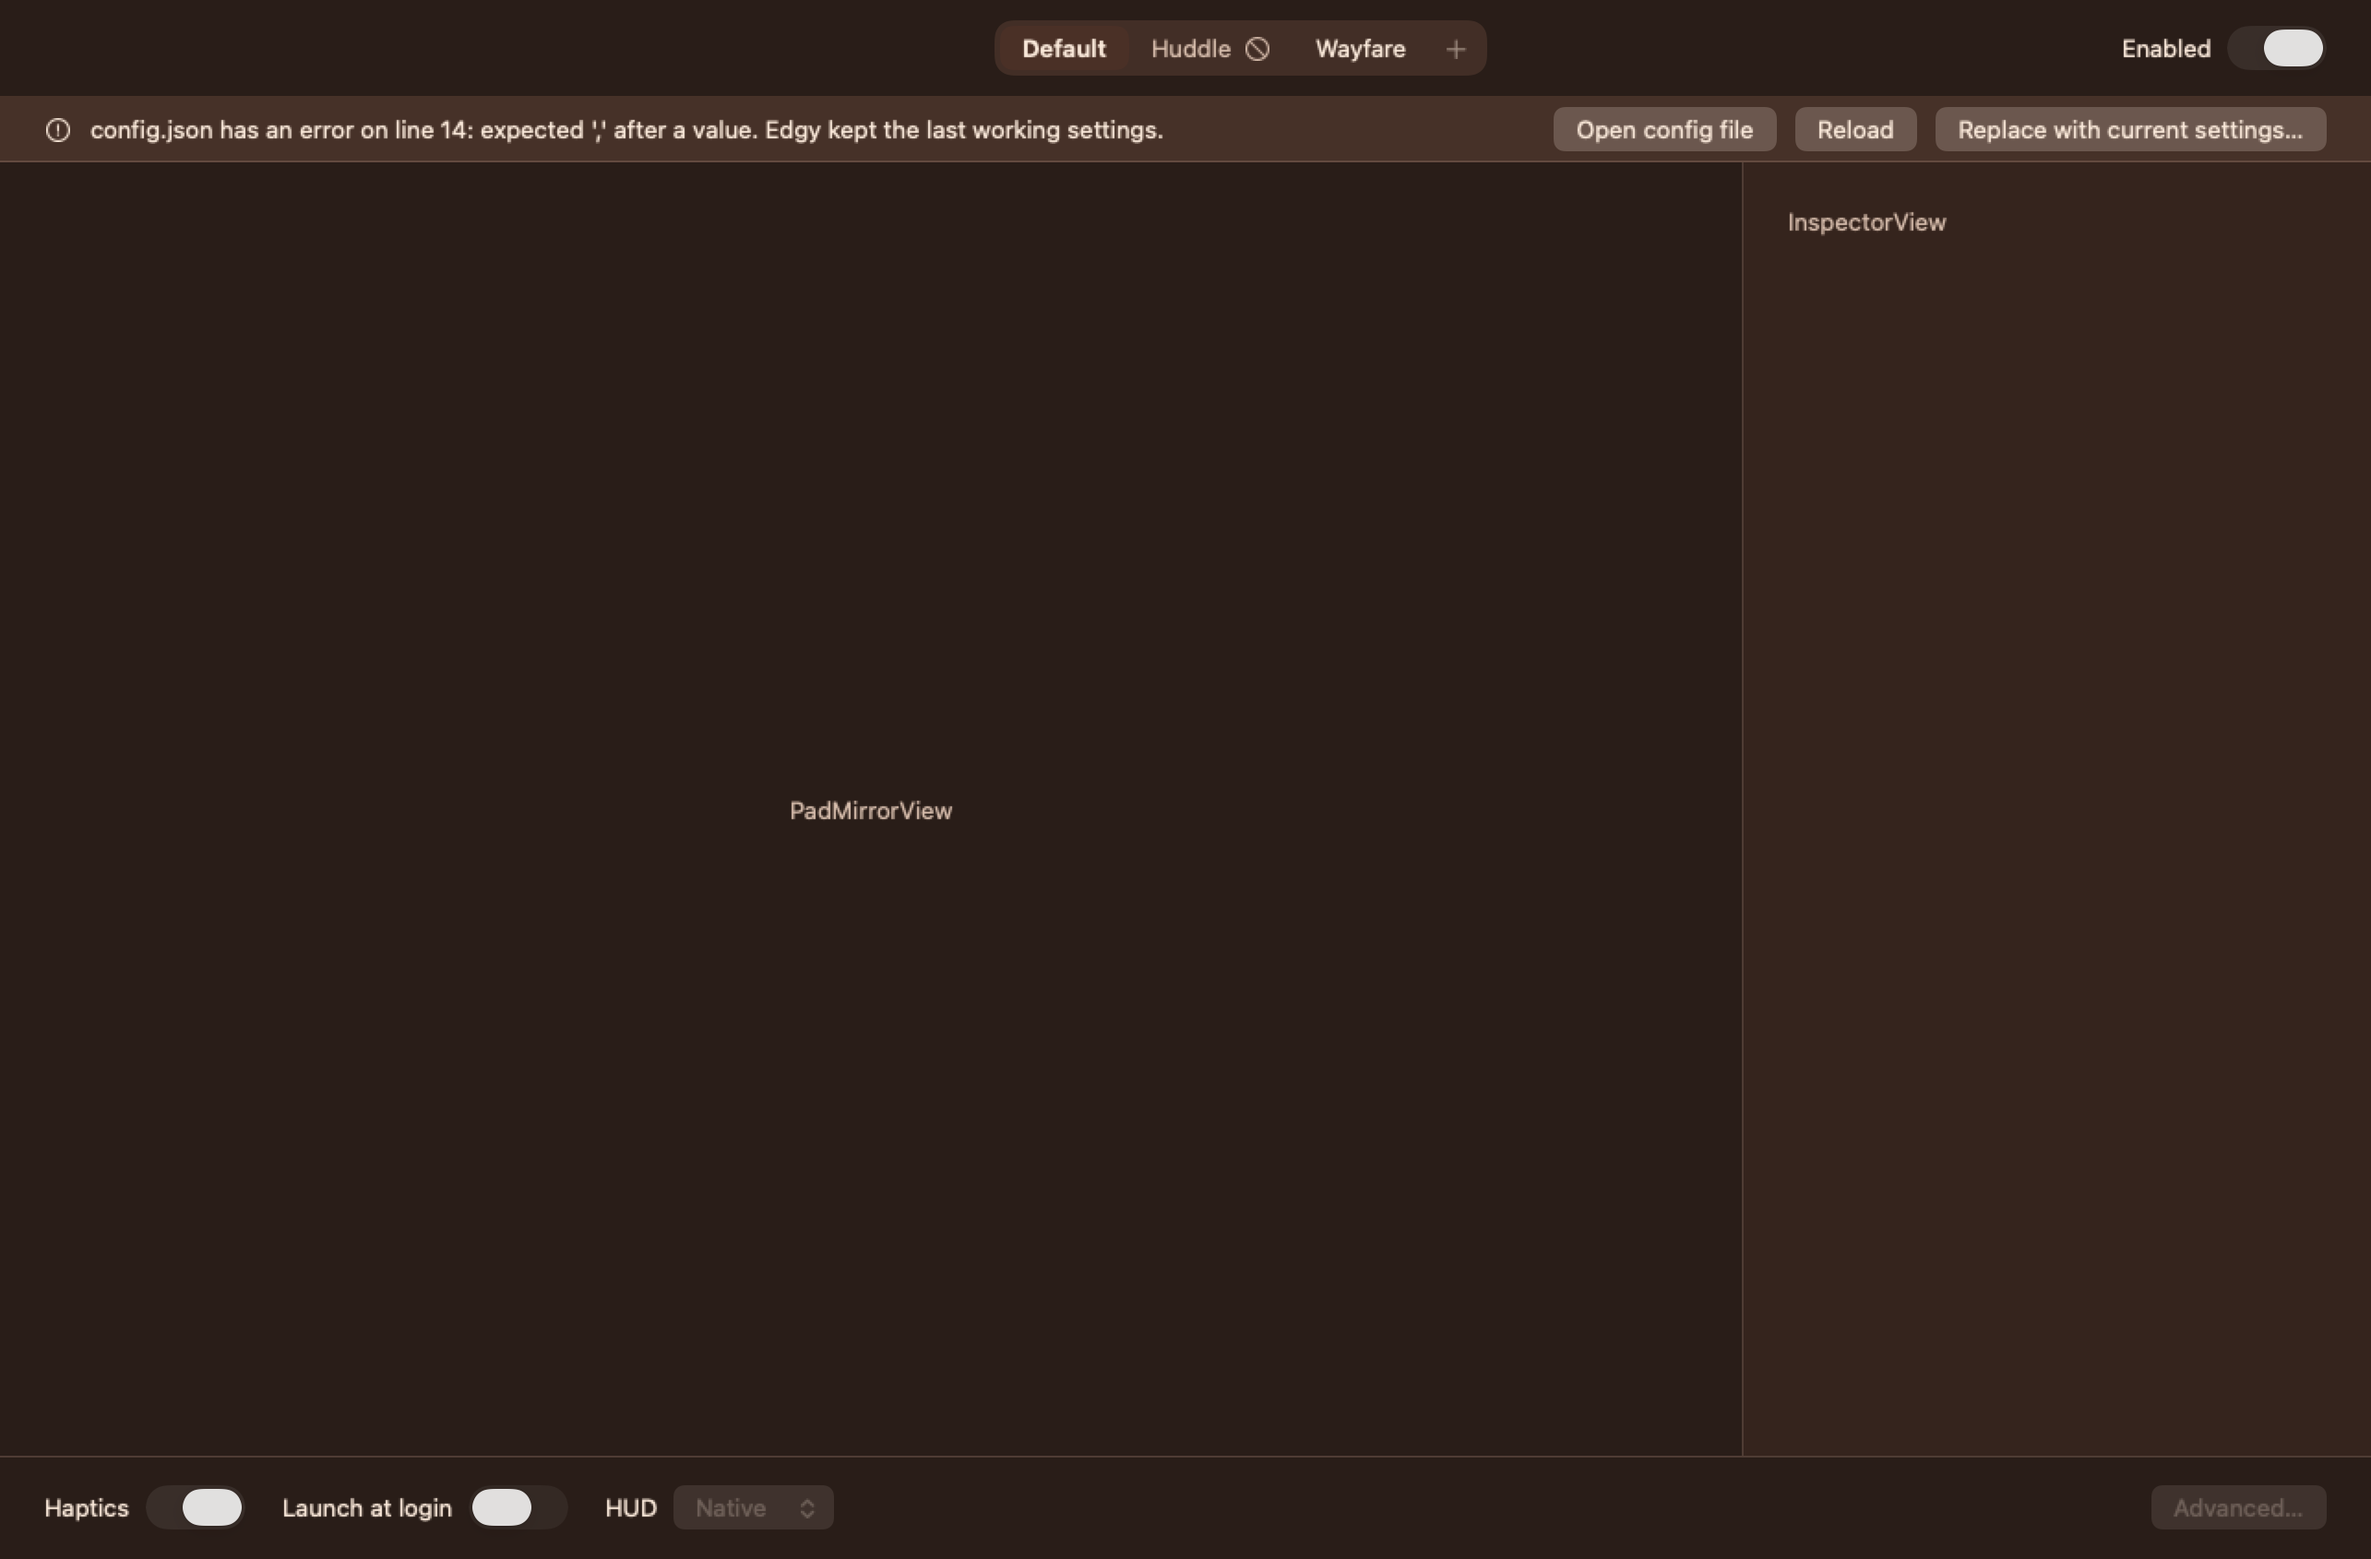
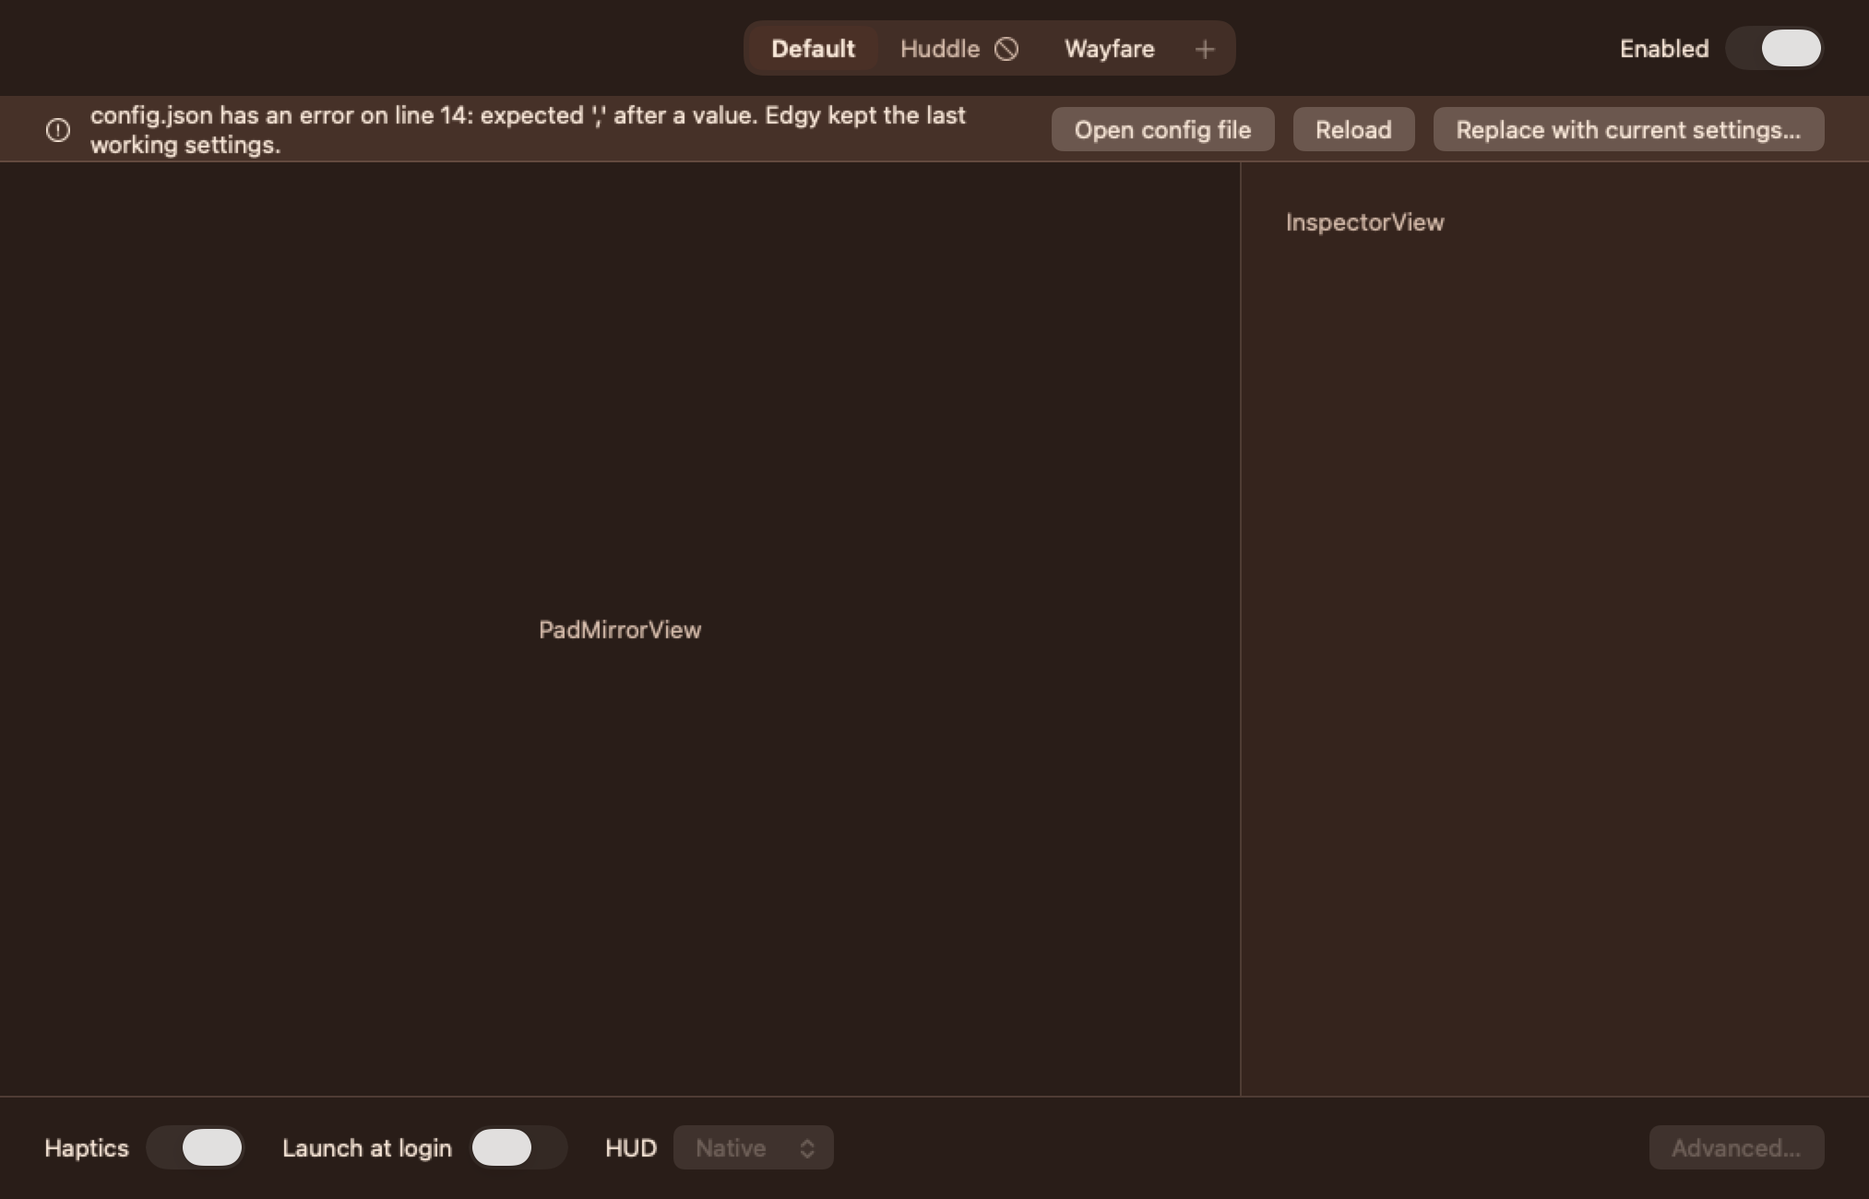
chief: mirror scale 3.7 pt/mm (window ≈ render A size); host settings window with live Accessibility + commands

diff --git a/Sources/EdgyApp/SettingsWindowController.swift b/Sources/EdgyApp/SettingsWindowController.swift
@@ -1,31 +1,46 @@
 import AppKit
+import EdgyRuntime
 import EdgyUI
+import Observation
 import SwiftUI
 
-/// Hosts the designed settings window (`SettingsWindowView`, EdgyUI) in an AppKit window.
-/// Edgy is a menu-bar app, so showing the window also brings the app forward; closing it leaves
-/// Edgy running in the menu bar.
+/// Live window-level conditions the app knows and the model doesn't (Accessibility, a broken
+/// config file), pushed into the window through `\.windowConditions`.
+@MainActor
+@Observable
+final class SettingsWindowState {
+  var conditions = WindowConditions.normal
+}
+
+/// Hosts the designed settings window (`SettingsWindowView`, EdgyUI) in an AppKit window with a
+/// transparent full-size title bar, so the profile tabs share the title bar. Edgy is a menu-bar
+/// app: showing the window brings Edgy forward; closing it leaves Edgy running.
 @MainActor
 final class SettingsWindowController: NSObject, NSWindowDelegate {
   private let model: SettingsModel
+  let state = SettingsWindowState()
+  private let commands: WindowCommands
   private var window: NSWindow?
 
-  init(model: SettingsModel) {
+  init(model: SettingsModel, commands: WindowCommands) {
     self.model = model
+    self.commands = commands
   }
 
   func show() {
     if window == nil {
-      let host = NSHostingController(rootView: SettingsWindowView(model: model))
+      let root = SettingsWindowRoot(model: model, state: state, commands: commands)
+      let host = NSHostingController(rootView: root)
       let window = NSWindow(contentViewController: host)
       window.title = "Edgy"
-      window.styleMask = [.titled, .closable, .miniaturizable, .fullSizeContentView]
+      window.styleMask = [.titled, .closable, .miniaturizable, .resizable, .fullSizeContentView]
       window.titlebarAppearsTransparent = true
       window.titleVisibility = .hidden
       window.isMovableByWindowBackground = true
       window.isReleasedWhenClosed = false
+      window.contentMinSize = SettingsWindowView.minimumSize
+      window.setContentSize(SettingsWindowView.minimumSize)
       window.delegate = self
-      window.setContentSize(host.view.fittingSize)
       window.center()
       self.window = window
     }
@@ -36,5 +51,17 @@ final class SettingsWindowController: NSObject, NSWindowDelegate {
 
   func windowWillClose(_ notification: Notification) {
     model.stopFeed()
+  }
+}
+
+private struct SettingsWindowRoot: View {
+  let model: SettingsModel
+  let state: SettingsWindowState
+  let commands: WindowCommands
+
+  var body: some View {
+    SettingsWindowView(model: model)
+      .environment(\.windowConditions, state.conditions)
+      .environment(\.windowCommands, commands)
   }
 }

diff --git a/Sources/EdgyApp/AppDelegate.swift b/Sources/EdgyApp/AppDelegate.swift
@@ -74,7 +74,12 @@ final class AppDelegate: NSObject, NSApplicationDelegate {
       editor: editor, engine: engine, installedApps: makeLiveInstalledAppsProvider(),
       shortcuts: makeLiveShortcutsListing(), keyRecorder: makeLiveKeyComboRecorder())
     self.settingsModel = settingsModel
-    settingsWindow = SettingsWindowController(model: settingsModel)
+    settingsWindow = SettingsWindowController(
+      model: settingsModel,
+      commands: WindowCommands(
+        openAccessibilitySettings: { [weak self] in self?.grantAccessibility() },
+        openConfigFile: { [weak self] in self?.openConfigFile() },
+        reloadConfig: { [weak self] in self?.reloadConfig() }))
 
     store.startWatching { [weak self] newConfig in
       Task { @MainActor in self?.editor?.adoptExternal(newConfig) }
@@ -129,6 +134,7 @@ final class AppDelegate: NSObject, NSApplicationDelegate {
   }
 
   private func refreshMenu() {
+    settingsWindow?.state.conditions.accessibility = permissions?.accessibility ?? .unknown
     statusMenu?.update(
       StatusMenu.State(
         enabled: editor?.config.app.enabled ?? applied.app.enabled, pausedUntil: engineStatus.pausedUntil,

diff --git a/Sources/EdgyUI/Shared/Tokens.swift b/Sources/EdgyUI/Shared/Tokens.swift
@@ -47,7 +47,7 @@ public enum Tokens {
   // MARK: Pad drawing
 
   /// Points per millimetre on the settings-window mirror (to scale: the mirror is the pad).
-  public static let mirrorPointsPerMM: CGFloat = 5.4
+  public static let mirrorPointsPerMM: CGFloat = 3.7
   /// The menu-bar popover's mini mirror.
   public static let miniMirrorPointsPerMM: CGFloat = 2.6
 
